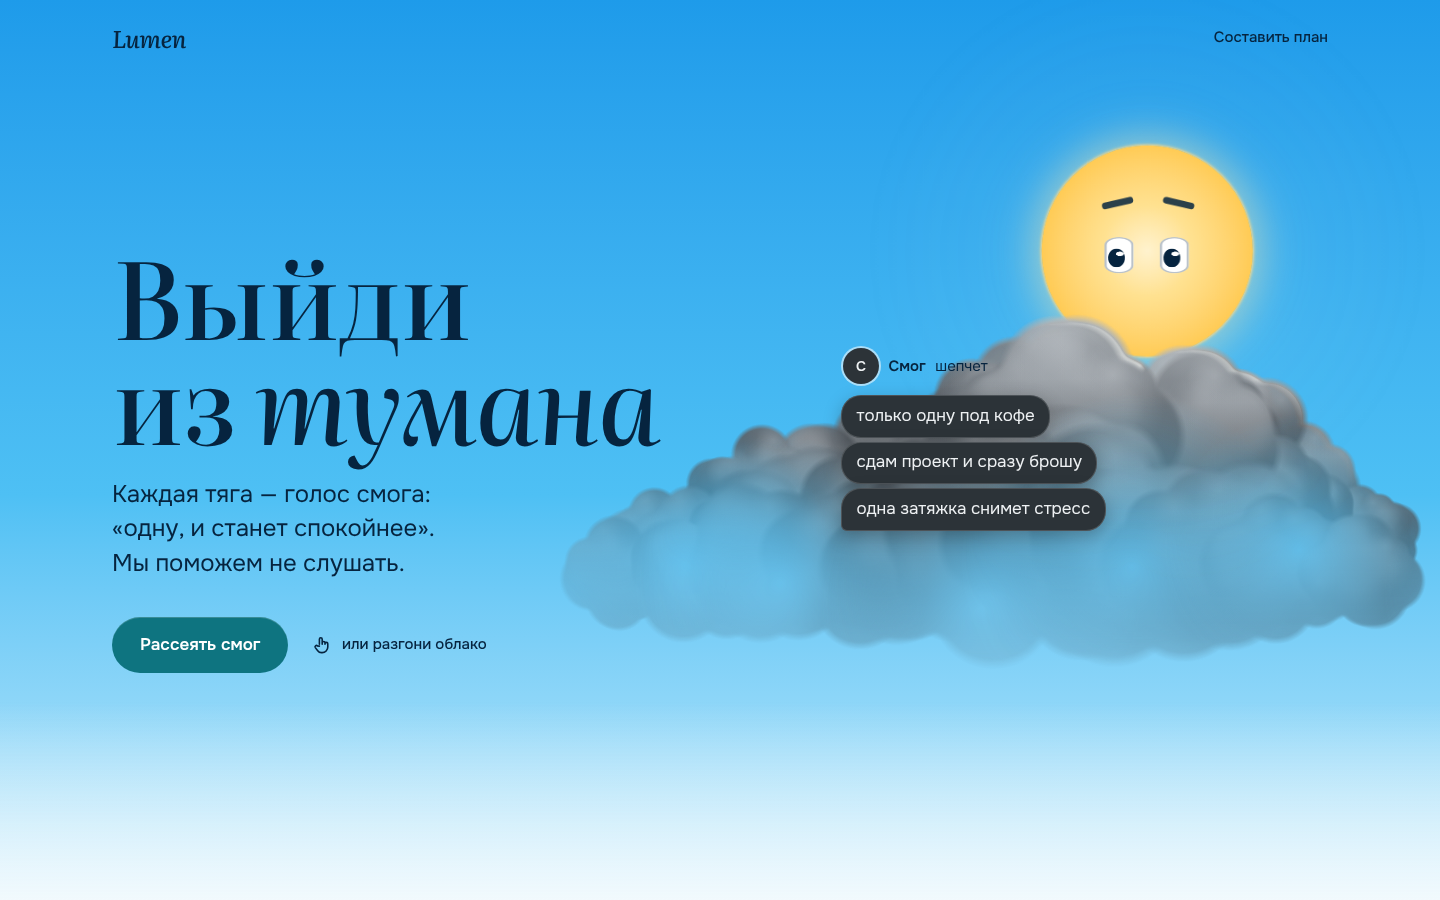
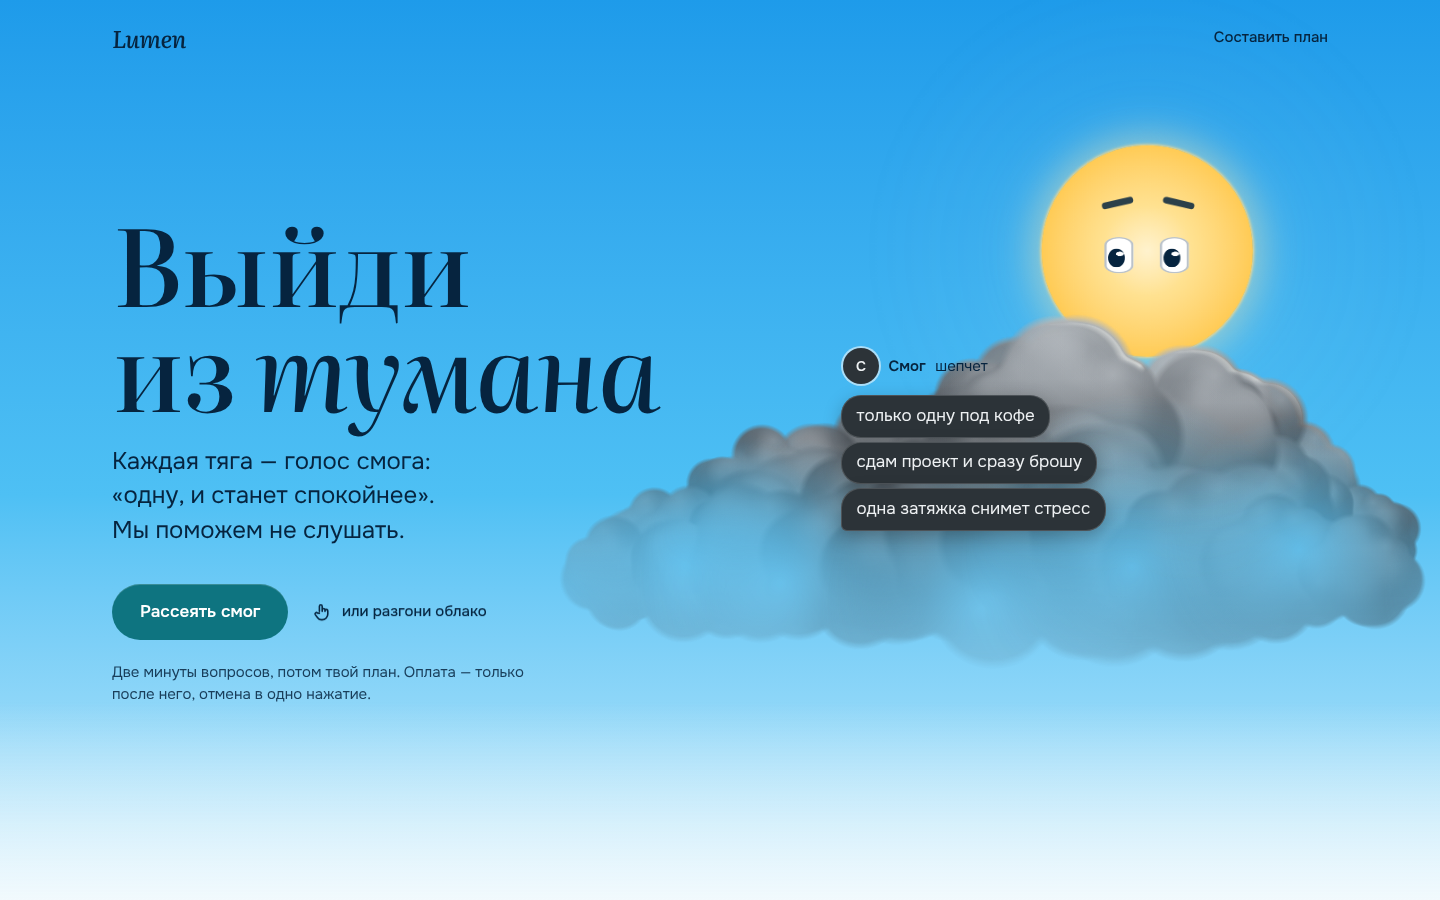
v9: hero note fills the mobile gap with real terms
Claude-Session: https://claude.ai/code/session_01CKqe4UyzFgn5AFv8yWGEaJ

Changed region(s): [[0.0625, 0.2489, 0.4688, 0.7778]]

diff --git a/design/directions/v9.html b/design/directions/v9.html
@@ -152,6 +152,7 @@ header.top .wrap{display:flex;justify-content:space-between;align-items:center;h
 .who.in{opacity:1}
 .av{width:2.25rem;height:2.25rem;border-radius:50%;background:var(--nick);color:var(--nick-text);display:grid;place-items:center;font:600 .875rem/1 var(--f-body);box-shadow:0 0 0 2px rgba(255,255,255,.55)}
 .who b{font-weight:600;font-size:.9375rem}
+.hero-note{margin-top:1.4rem;max-width:26rem;font-size:.9375rem;line-height:1.45;color:var(--ink);opacity:.85;text-wrap:pretty}
 .who .st{font-size:.9375rem;opacity:1;color:var(--ink)}
 .bubbles{position:relative;display:flex;flex-direction:column;align-items:flex-start;gap:.22rem}
 .b{max-width:min(100%,17.5rem);text-wrap:pretty;background:var(--nick);color:var(--nick-text);padding:.6rem .95rem .64rem;font-size:1.0625rem;line-height:1.35;
@@ -547,6 +548,7 @@ html:has(dialog.plan[open]) .hero-inner .copy{opacity:0;transition:opacity .2s v
           <button class="btn btn-act" id="plan-open" tabindex="-1">Составить план — 2&nbsp;минуты</button>
         </div>
       </div>
+      <p class="hero-note">Две минуты вопросов, потом твой план. Оплата — только после него, отмена в&nbsp;одно нажатие.</p>
     </div>
   </div></div>
   <p class="sr" id="status" aria-live="polite"></p>
